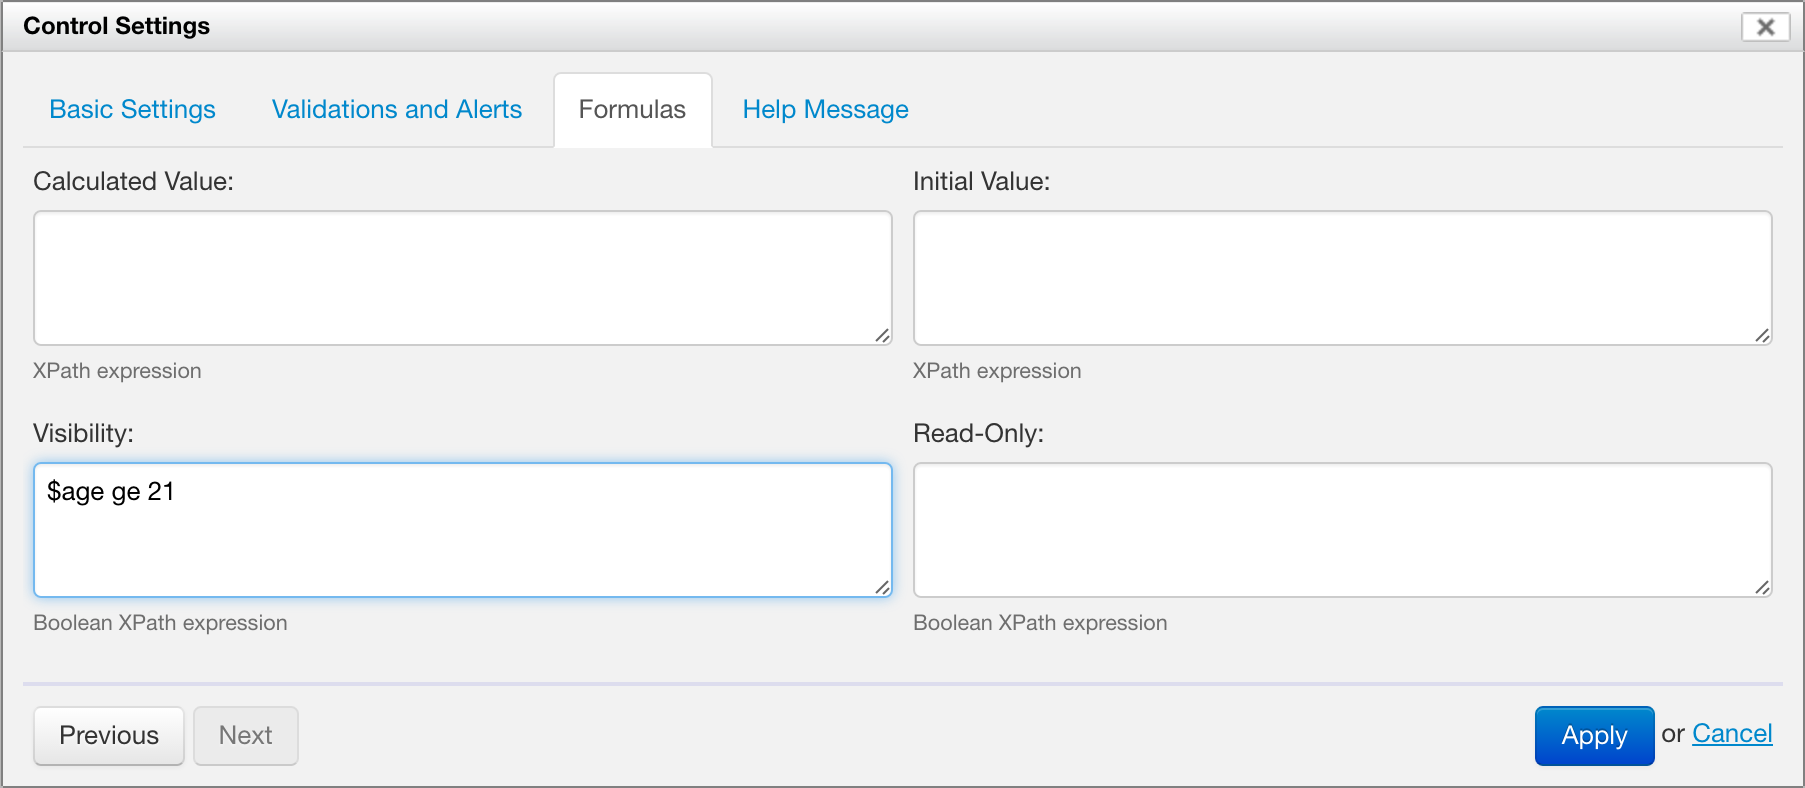
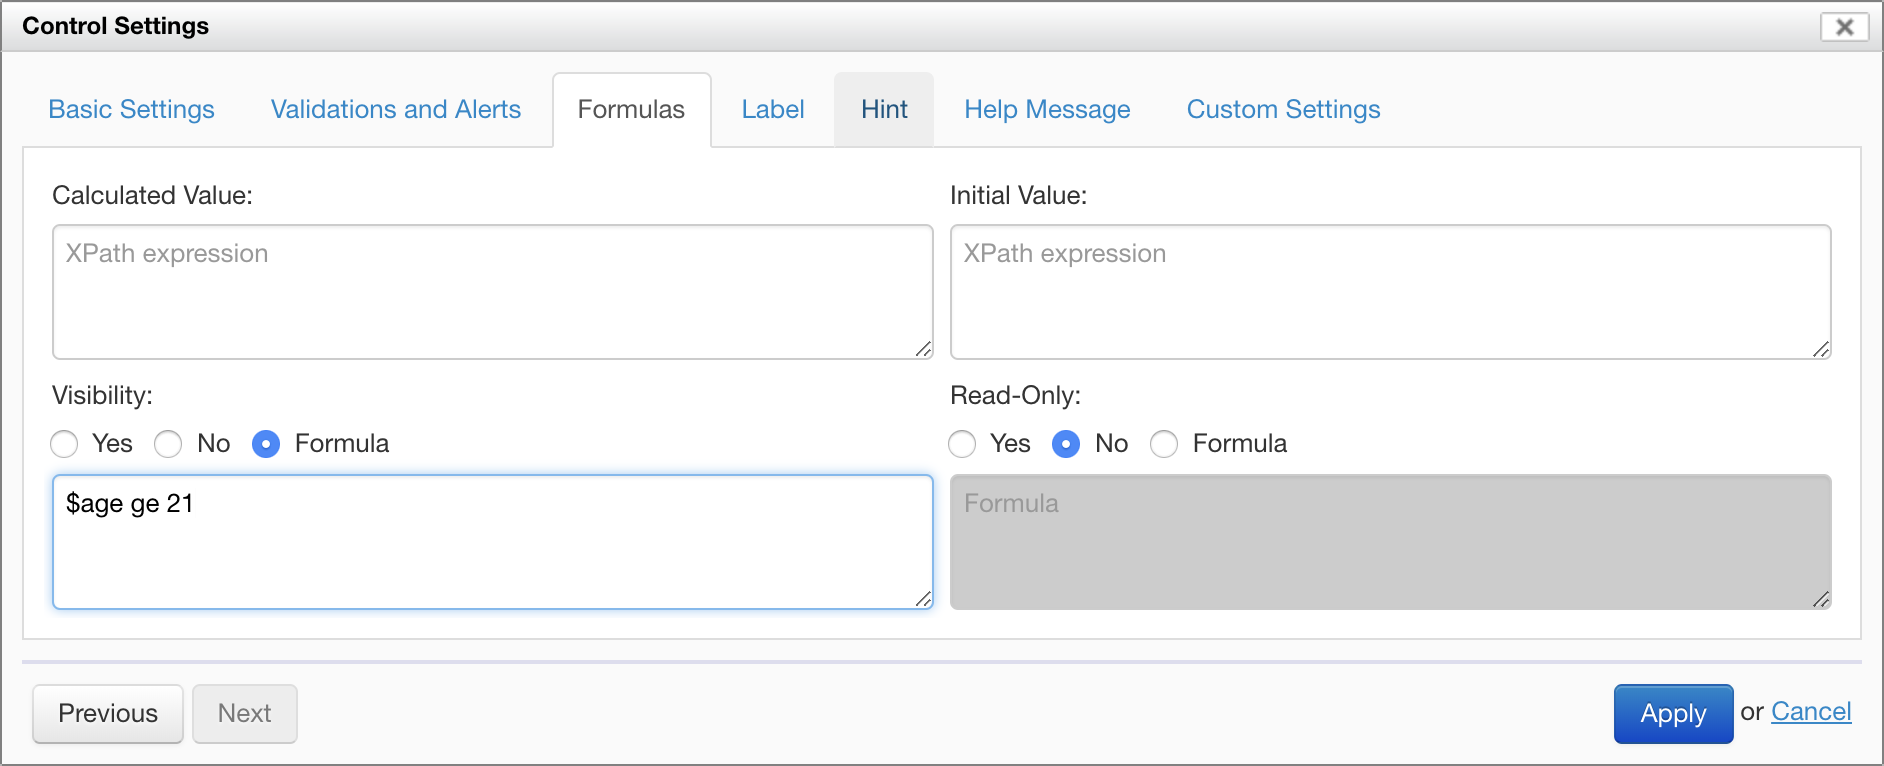
Formulas

diff --git a/form-builder/control-settings.md b/form-builder/control-settings.md
@@ -104,6 +104,10 @@ See [Form Builder Validation](validation.md) for details.
 
 See [Formulas](formulas.md) for details.
 
+[SINCE Orbeon Forms 2018.2]
+
+The "Yes" and "No" options have their own radio button. Select "Formula" to enter a dynamic "Visibility" or "Read-Only" formula.
+
 ### Label and Hint
 
 [SINCE Orbeon Forms 2017.2]
